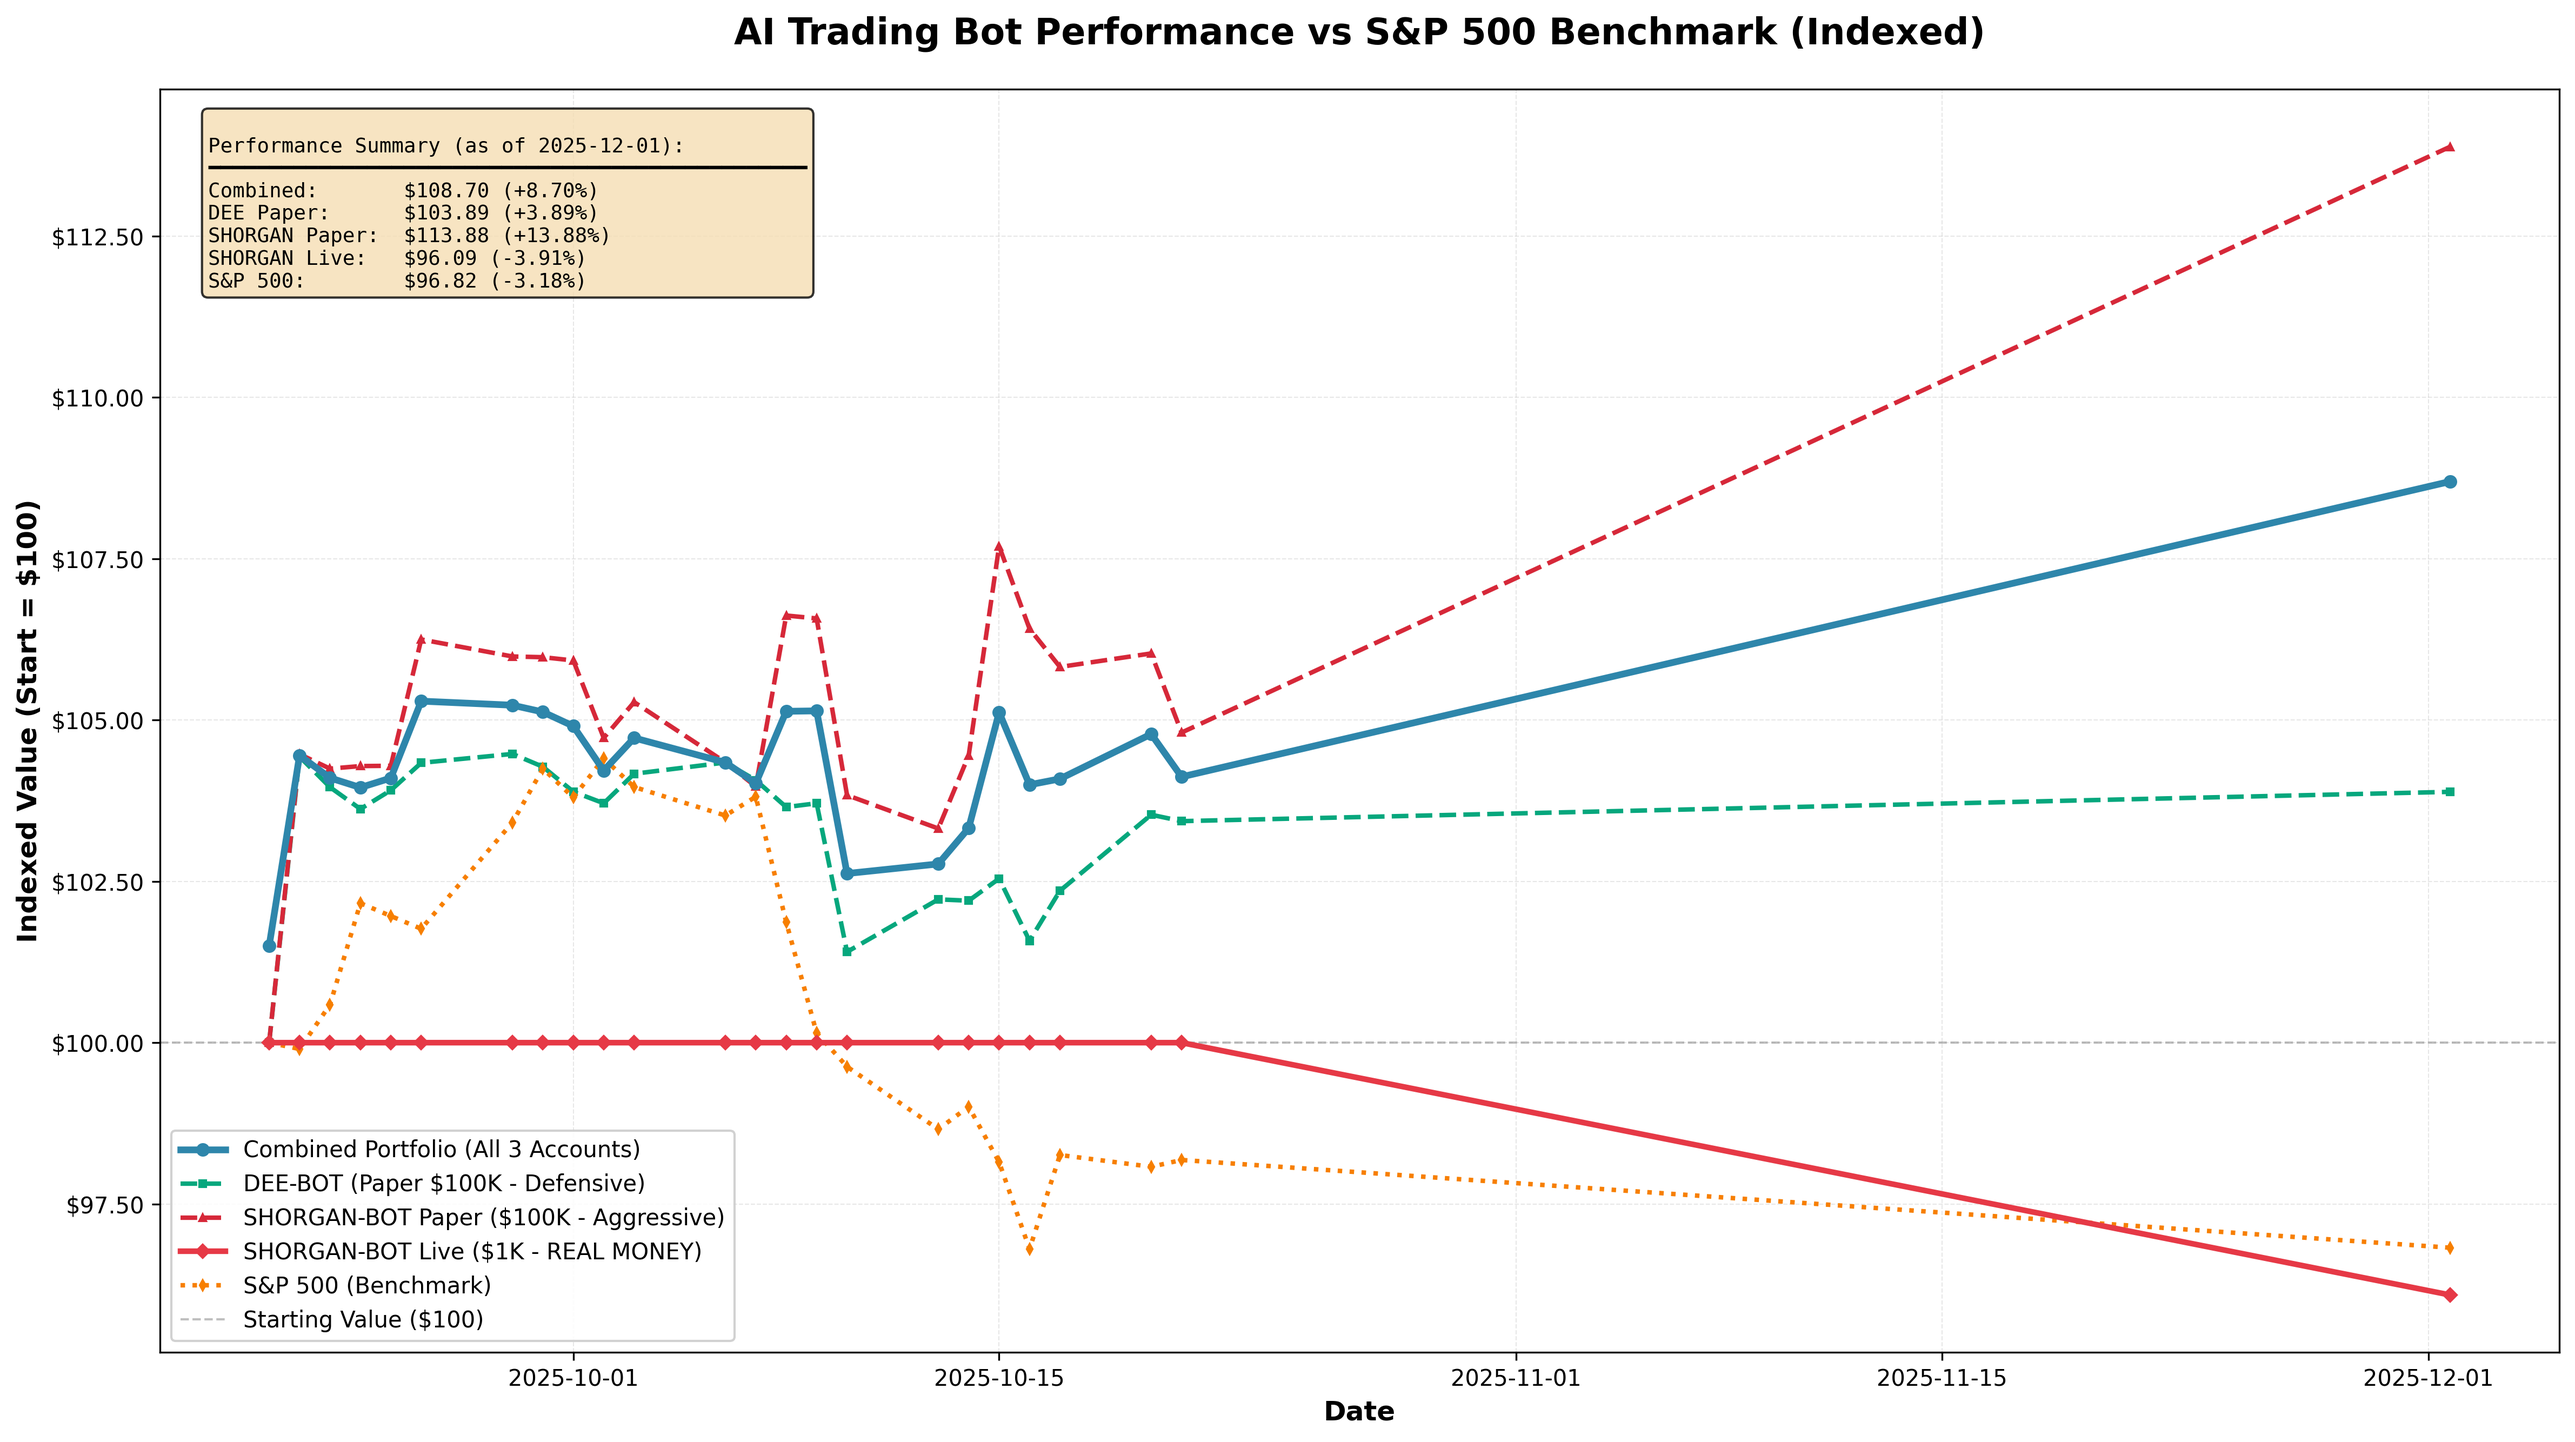
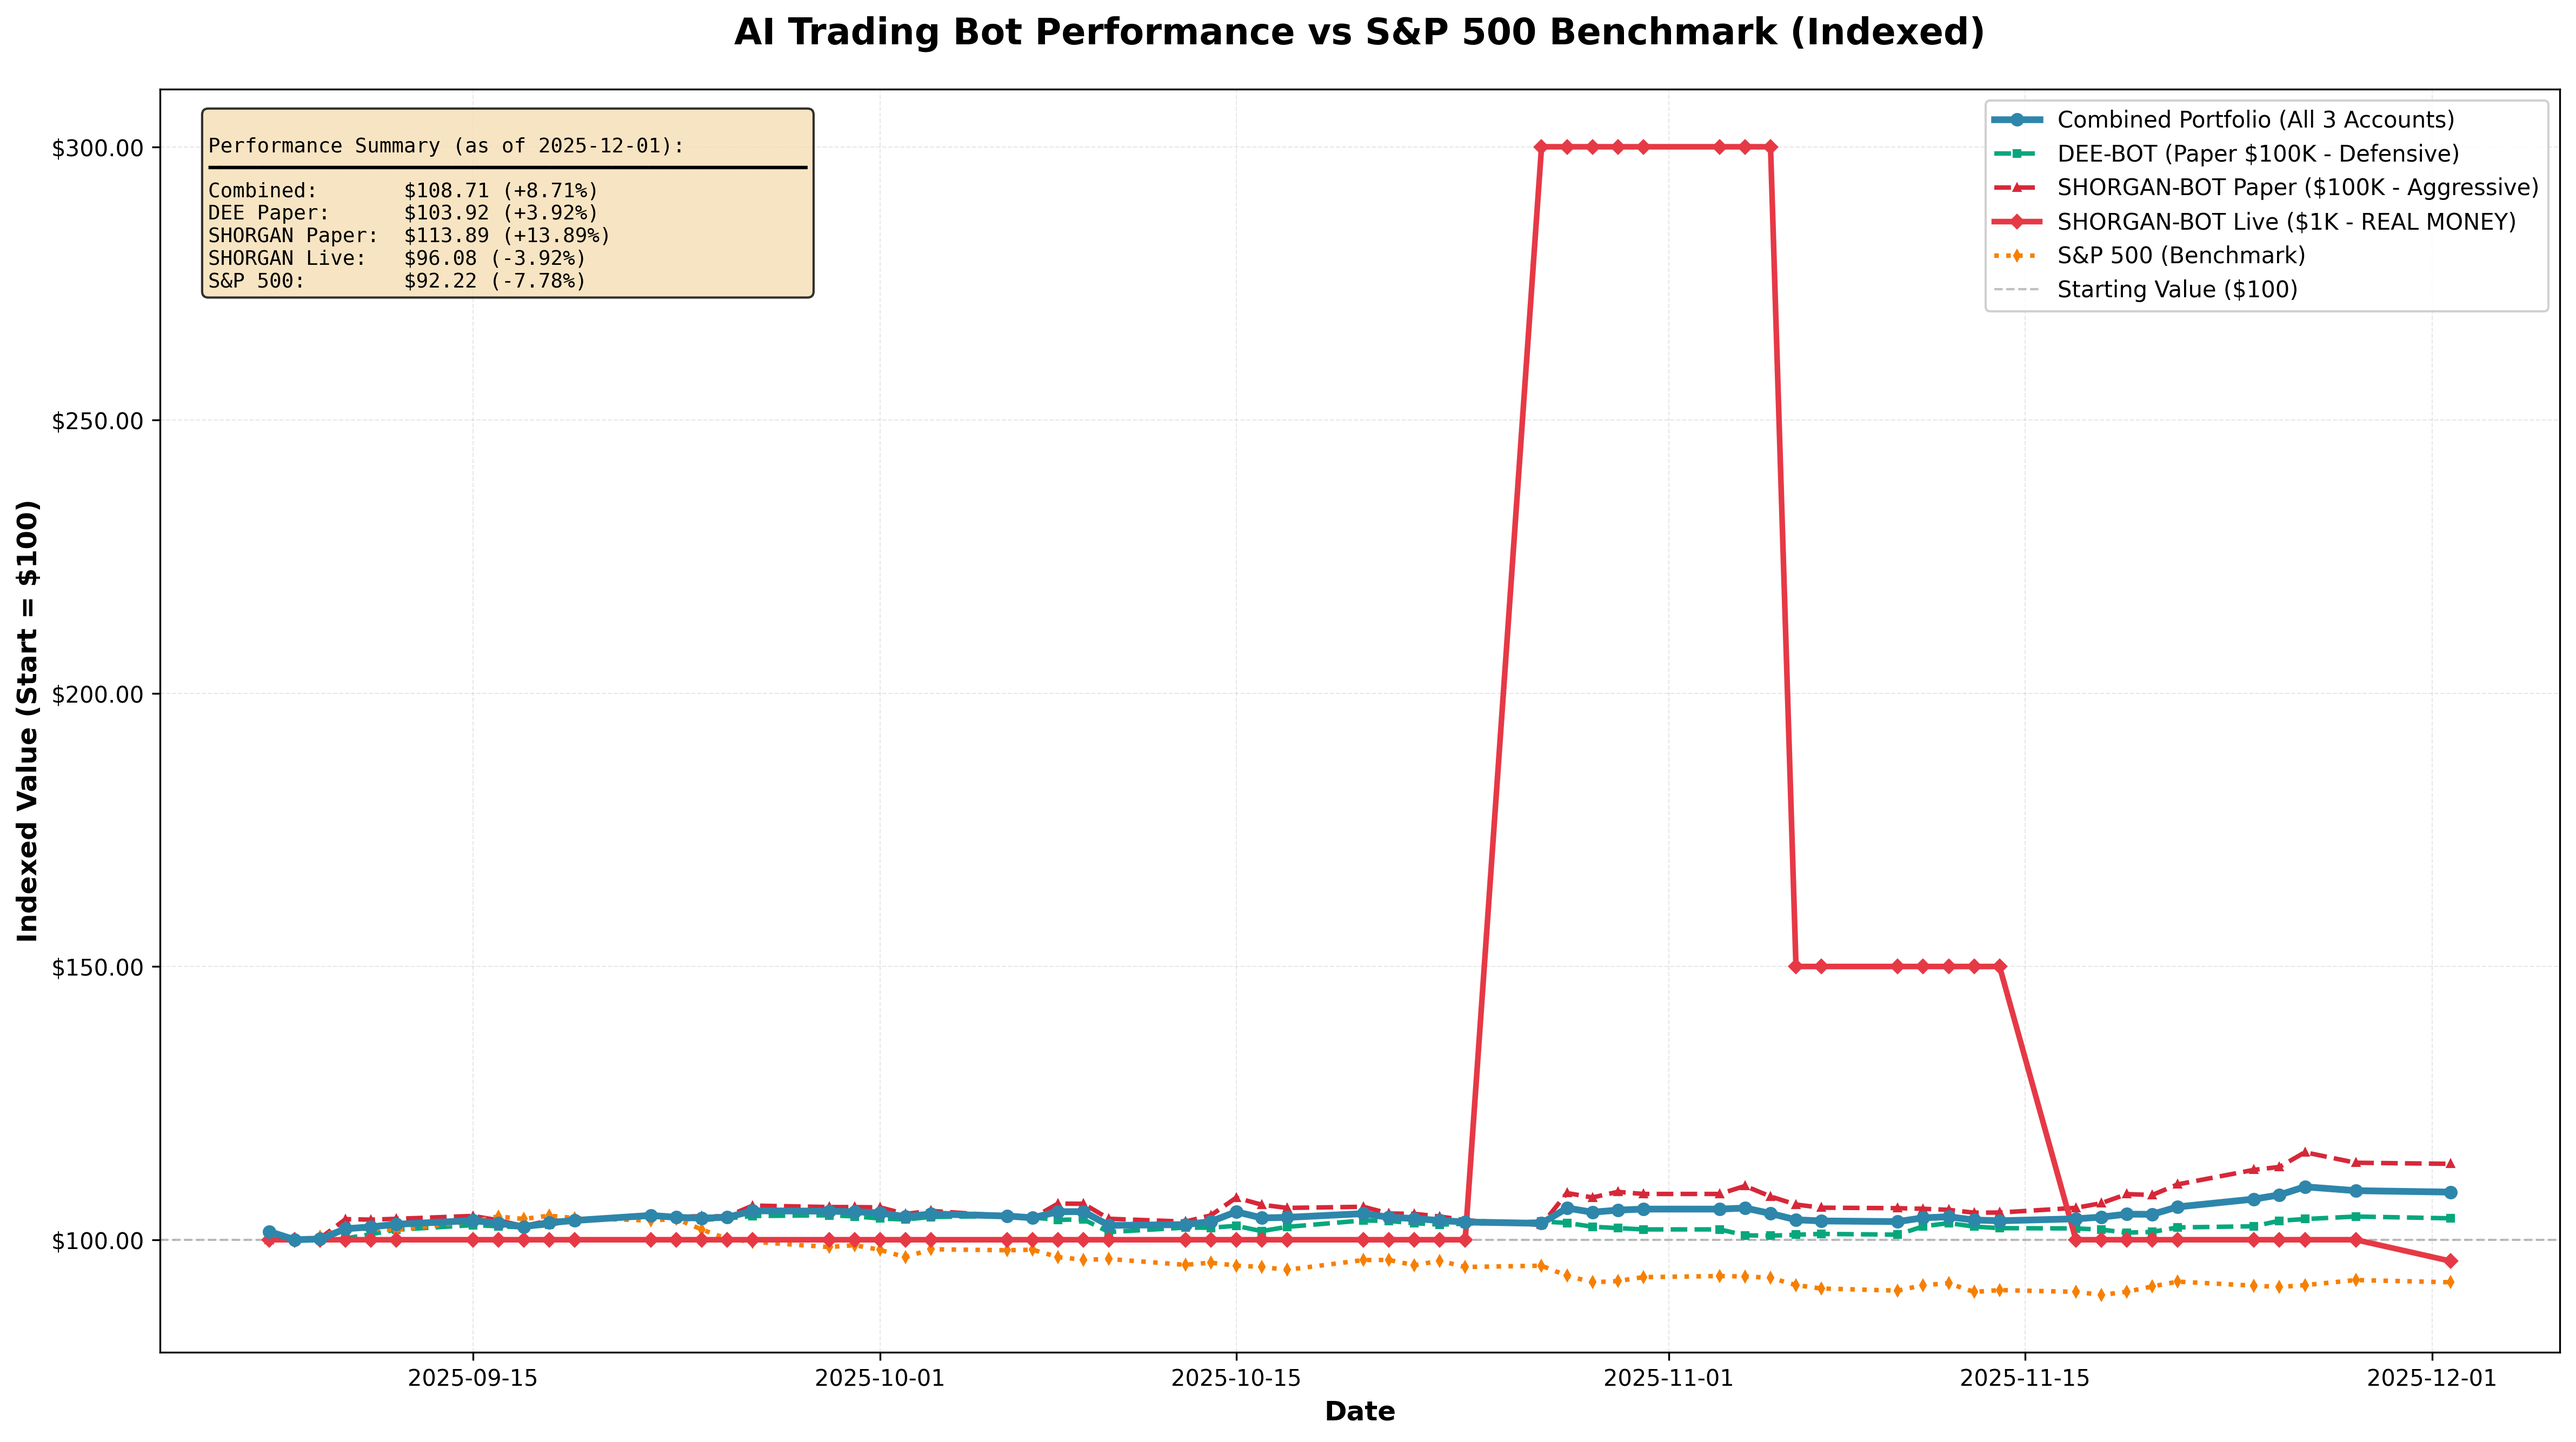
feat: add performance history backfill script
- Created backfill_performance.py to fetch historical data from Alpaca
- Backfilled 37 missing records (Oct 22 - Nov 28)
- Performance graph now has 61 daily data points (was 24)

🤖 Generated with [Claude Code](https://claude.com/claude-code)

diff --git a/backfill_performance.py b/backfill_performance.py
@@ -1,0 +1,139 @@
+"""Backfill missing performance data from Alpaca portfolio history"""
+import json
+import os
+from datetime import datetime, timedelta
+from dotenv import load_dotenv
+
+load_dotenv()
+
+from alpaca.trading.client import TradingClient
+from alpaca.trading.requests import GetPortfolioHistoryRequest
+
+def get_portfolio_history(api_key, secret_key, paper=True, start_date=None):
+    """Get daily portfolio history from Alpaca"""
+    client = TradingClient(api_key, secret_key, paper=paper)
+
+    request = GetPortfolioHistoryRequest(
+        period="3M",  # Last 3 months
+        timeframe="1D"  # Daily
+    )
+
+    history = client.get_portfolio_history(request)
+
+    # Convert to list of {date, value} records
+    records = []
+    for i, timestamp in enumerate(history.timestamp):
+        dt = datetime.fromtimestamp(timestamp)
+        records.append({
+            'date': dt.strftime('%Y-%m-%d'),
+            'value': history.equity[i]
+        })
+
+    return records
+
+def backfill_performance_history():
+    """Backfill missing dates in performance history"""
+
+    # Load existing history
+    history_file = 'data/daily/performance/performance_history.json'
+    with open(history_file, 'r') as f:
+        data = json.load(f)
+
+    existing_dates = {r['date'] for r in data['daily_records']}
+    print(f"Existing records: {len(existing_dates)}")
+    print(f"Date range: {min(existing_dates)} to {max(existing_dates)}")
+
+    # Get DEE-BOT history
+    print("\nFetching DEE-BOT portfolio history...")
+    dee_history = get_portfolio_history(
+        os.getenv('ALPACA_API_KEY_DEE'),
+        os.getenv('ALPACA_SECRET_KEY_DEE'),
+        paper=True
+    )
+    print(f"  Got {len(dee_history)} records")
+
+    # Get SHORGAN Paper history
+    print("Fetching SHORGAN Paper portfolio history...")
+    shorgan_history = get_portfolio_history(
+        os.getenv('ALPACA_API_KEY_SHORGAN'),
+        os.getenv('ALPACA_SECRET_KEY_SHORGAN'),
+        paper=True
+    )
+    print(f"  Got {len(shorgan_history)} records")
+
+    # Get SHORGAN Live history
+    print("Fetching SHORGAN Live portfolio history...")
+    try:
+        live_history = get_portfolio_history(
+            os.getenv('ALPACA_API_KEY_SHORGAN_LIVE'),
+            os.getenv('ALPACA_SECRET_KEY_SHORGAN_LIVE'),
+            paper=False
+        )
+        print(f"  Got {len(live_history)} records")
+    except Exception as e:
+        print(f"  Error: {e}")
+        live_history = []
+
+    # Create lookup dicts
+    dee_by_date = {r['date']: r['value'] for r in dee_history}
+    shorgan_by_date = {r['date']: r['value'] for r in shorgan_history}
+    live_by_date = {r['date']: r['value'] for r in live_history}
+
+    # Find all unique dates
+    all_dates = set(dee_by_date.keys()) | set(shorgan_by_date.keys())
+    new_dates = all_dates - existing_dates
+
+    print(f"\nNew dates to add: {len(new_dates)}")
+
+    # Add missing records
+    added = 0
+    for date in sorted(new_dates):
+        dee_val = dee_by_date.get(date, 0)
+        shorgan_val = shorgan_by_date.get(date, 0)
+        live_val = live_by_date.get(date, 0)
+
+        if dee_val > 0 and shorgan_val > 0:
+            record = {
+                "date": date,
+                "timestamp": f"{date}T16:00:00",
+                "dee_bot": {
+                    "value": dee_val,
+                    "daily_pnl": 0,
+                    "total_return": ((dee_val / 100000) - 1) * 100
+                },
+                "shorgan_bot": {
+                    "value": shorgan_val,
+                    "daily_pnl": 0,
+                    "total_return": ((shorgan_val / 100000) - 1) * 100
+                },
+                "shorgan_live": {
+                    "value": live_val if live_val > 0 else 0,
+                    "daily_pnl": 0,
+                    "total_return": ((live_val / 3000) - 1) * 100 if live_val > 0 else 0
+                },
+                "combined": {
+                    "total_value": dee_val + shorgan_val + live_val,
+                    "total_daily_pnl": 0,
+                    "total_return": (((dee_val + shorgan_val) / 200000) - 1) * 100,
+                    "total_positions": 0,
+                    "total_orders_today": 0
+                }
+            }
+            data['daily_records'].append(record)
+            added += 1
+            print(f"  Added {date}: DEE=${dee_val:,.2f}, SHORGAN=${shorgan_val:,.2f}")
+
+    # Sort by date
+    data['daily_records'].sort(key=lambda x: x['date'])
+
+    # Save updated history
+    with open(history_file, 'w') as f:
+        json.dump(data, f, indent=2)
+
+    print(f"\nBackfill complete!")
+    print(f"  Added {added} new records")
+    print(f"  Total records: {len(data['daily_records'])}")
+    print(f"  Date range: {data['daily_records'][0]['date']} to {data['daily_records'][-1]['date']}")
+
+if __name__ == "__main__":
+    backfill_performance_history()
